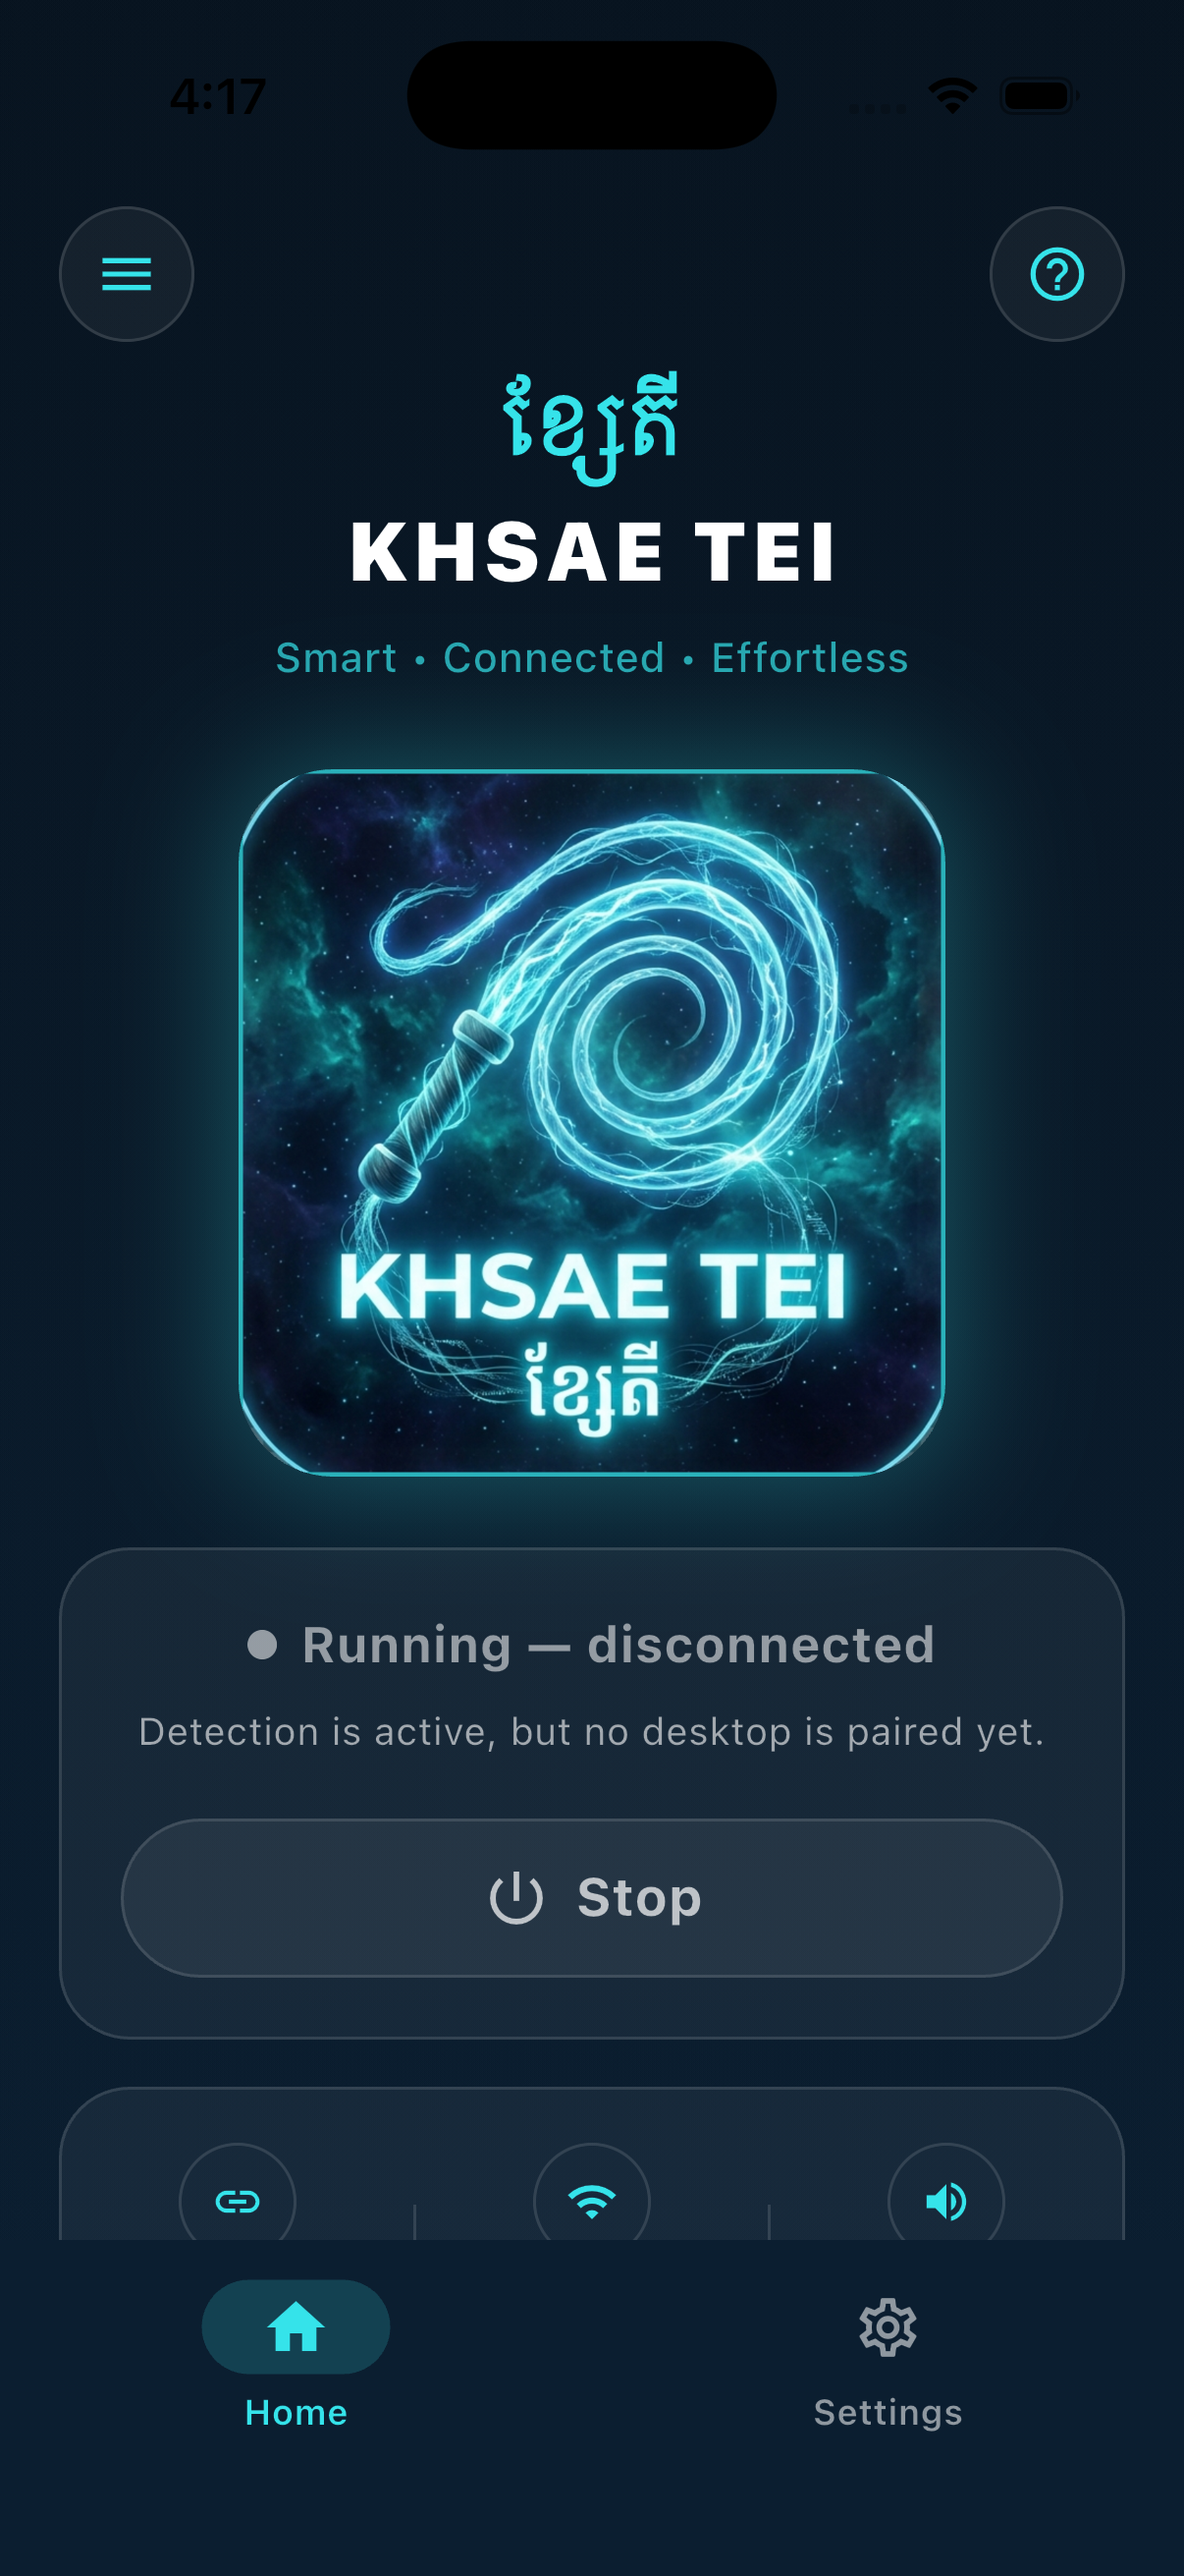
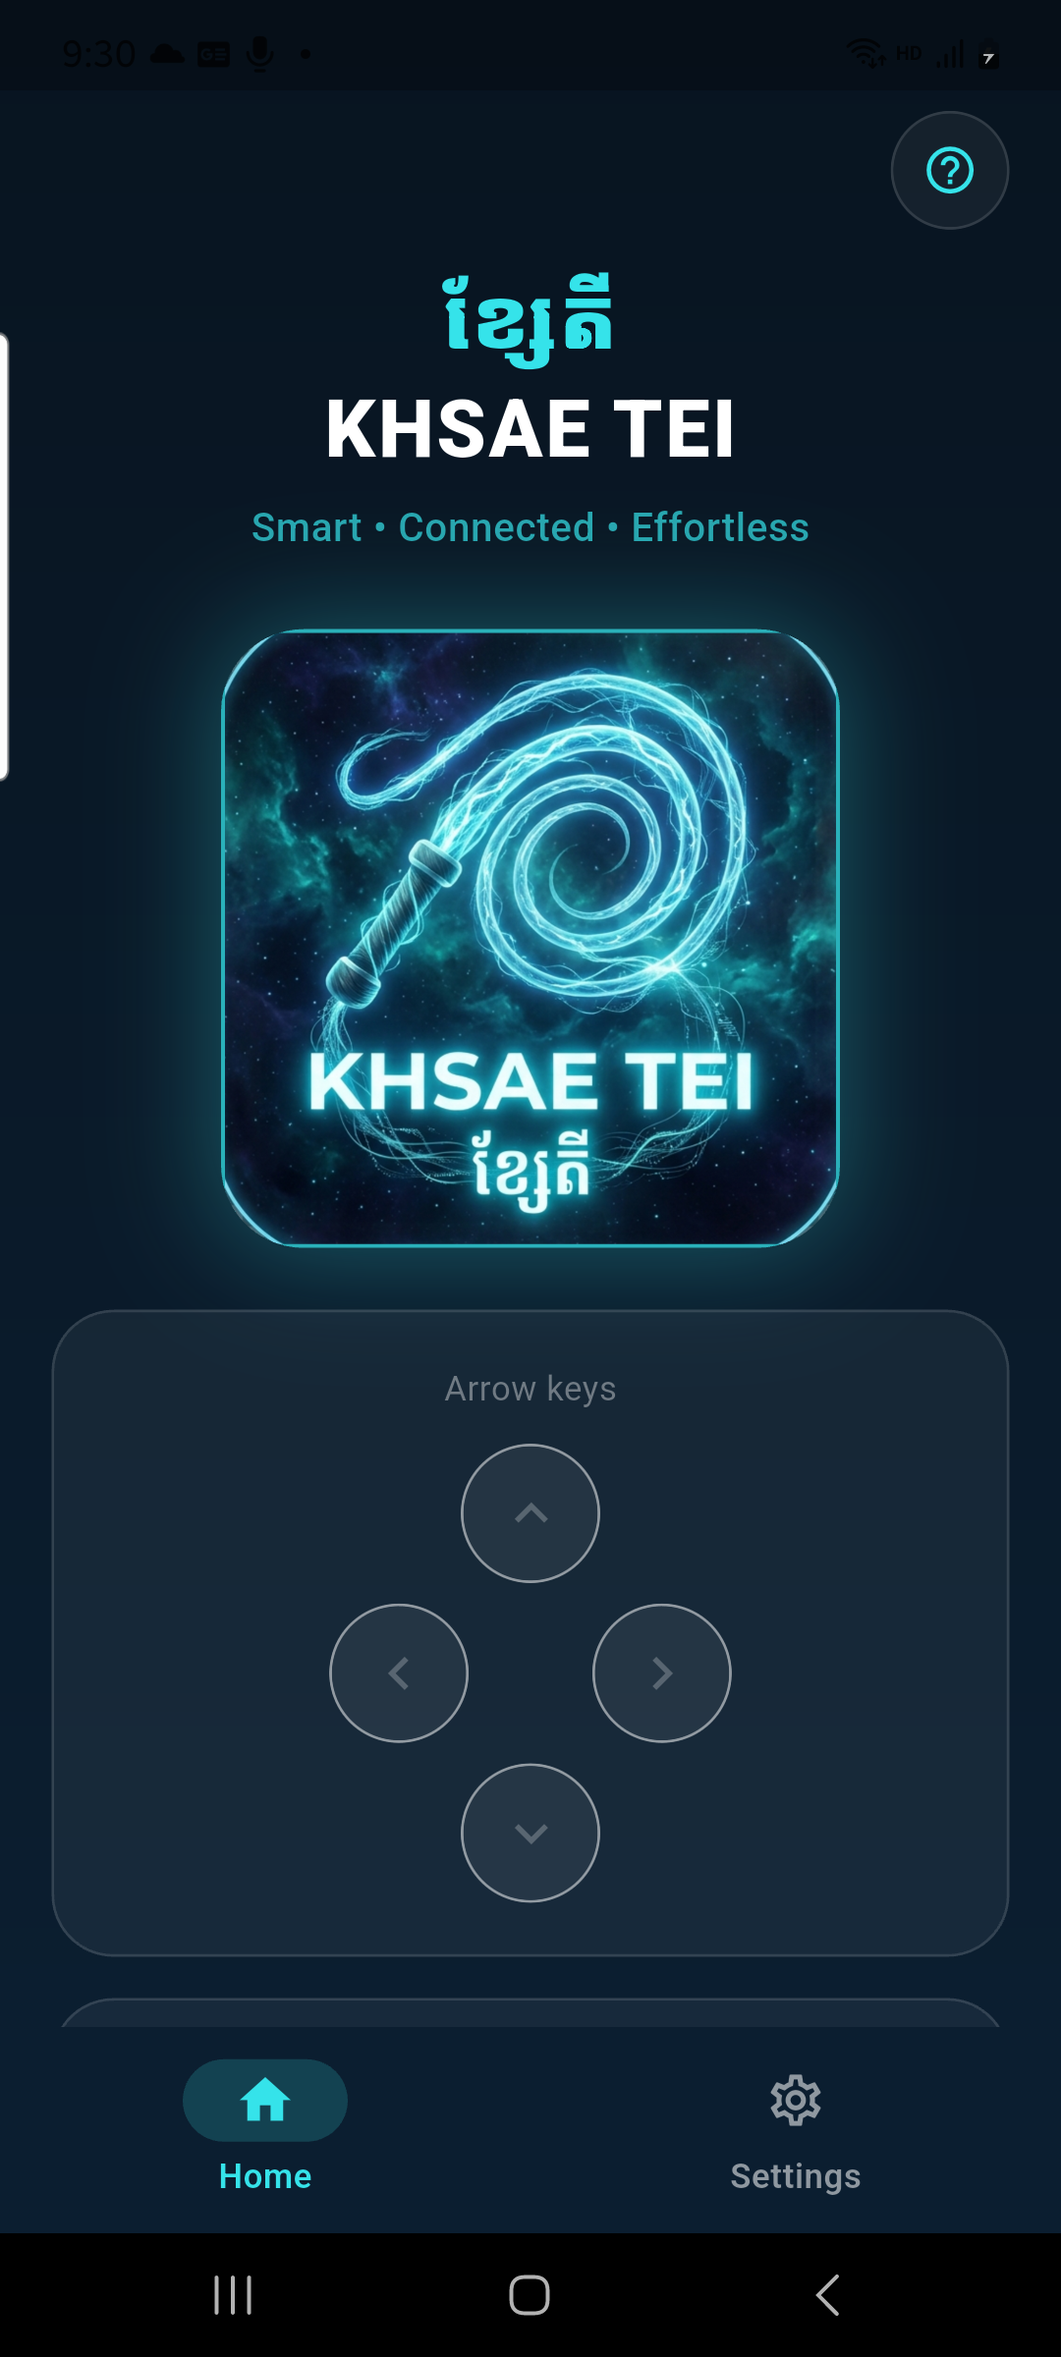
Prepare Android app for Play Store release
Wire up release signing (upload keystore, not checked in), enable
minification/shrinking with ProGuard rules for the ML Kit barcode
scanner, add a hosted privacy policy page, and generate/replace store
listing assets (hi-res icon, feature graphic, real Android screenshots
captured on-device).

diff --git a/docs/privacy-policy.html b/docs/privacy-policy.html
@@ -1,0 +1,102 @@
+<!doctype html>
+<html lang="en">
+<head>
+<meta charset="utf-8">
+<meta name="viewport" content="width=device-width, initial-scale=1">
+<title>Privacy Policy — KHSAE TEI</title>
+<style>
+  :root {
+    color-scheme: light dark;
+    --bg: #0d2334;
+    --fg: #eaf6fb;
+    --accent: #4dd8e6;
+    --muted: #9fb6c2;
+    --card: #12314a;
+  }
+  * { box-sizing: border-box; }
+  body {
+    margin: 0;
+    background: var(--bg);
+    color: var(--fg);
+    font-family: -apple-system, BlinkMacSystemFont, "Segoe UI", Roboto, Helvetica, Arial, sans-serif;
+    line-height: 1.6;
+  }
+  main {
+    max-width: 700px;
+    margin: 0 auto;
+    padding: 2.5rem 1.5rem 4rem;
+  }
+  h1 {
+    font-size: 1.75rem;
+    margin-bottom: 0.25rem;
+  }
+  .updated {
+    color: var(--muted);
+    font-size: 0.9rem;
+    margin-bottom: 2rem;
+  }
+  h2 {
+    font-size: 1.15rem;
+    margin-top: 2rem;
+    color: var(--accent);
+  }
+  .card {
+    background: var(--card);
+    border-radius: 12px;
+    padding: 1.25rem 1.5rem;
+    margin: 1.5rem 0;
+  }
+  ul { padding-left: 1.25rem; }
+  li { margin-bottom: 0.5rem; }
+  a { color: var(--accent); }
+  footer {
+    margin-top: 3rem;
+    color: var(--muted);
+    font-size: 0.85rem;
+  }
+</style>
+</head>
+<body>
+<main>
+  <h1>Privacy Policy — KHSAE TEI (ខ្សែតី)</h1>
+  <p class="updated">Last updated: August 10, 2026</p>
+
+  <p>
+    KHSAE TEI does not collect, store, or transmit any personal data to us
+    or to any third party. The app communicates directly with a companion
+    desktop application over your local network only — nothing leaves your
+    WiFi network.
+  </p>
+
+  <div class="card">
+    <h2>Permissions we ask for, and why</h2>
+    <ul>
+      <li>
+        <strong>Camera</strong> — to scan the QR code the desktop app
+        displays for pairing. Never used for anything else; no images are
+        stored or transmitted.
+      </li>
+      <li>
+        <strong>Local network access</strong> — to discover the desktop app
+        on your WiFi network (mDNS) and connect to it.
+      </li>
+    </ul>
+  </div>
+
+  <h2>What we don't do</h2>
+  <p>
+    We do not use analytics, advertising, or crash-reporting SDKs. We do
+    not have a server, a database, or an account system — there is nothing
+    for us to collect.
+  </p>
+
+  <h2>Contact</h2>
+  <p>
+    Questions about this policy? Email
+    <a href="mailto:sreangrathanak@gmail.com">sreangrathanak@gmail.com</a>.
+  </p>
+
+  <footer>KHSAE TEI — <a href="https://github.com/RathanakSreang/khsae_tei">github.com/RathanakSreang/khsae_tei</a></footer>
+</main>
+</body>
+</html>

diff --git a/mobile/RELEASE.md b/mobile/RELEASE.md
@@ -16,31 +16,58 @@ Screenshots are in [`store_assets/screenshots/`](store_assets/screenshots/).
 | Category suggestion | Utilities / Productivity |
 | Platforms | iOS 13+, Android 7.0+ (API 24+) |
 
-## Blocking — cannot submit without these
+## Blocking — Android status (2026-08-10)
 
-These need action from you (Apple Developer / Google Play Console access,
-or a judgment call I shouldn't make unilaterally) before either store will
-accept a build.
+Android release-prep is now done end-to-end from this environment. What
+changed:
 
-- [ ] **iOS distribution signing.** Currently only signs with your local
-  Apple Development certificate (fine for `flutter run`, not for App Store
-  Connect). In Xcode: Signing & Capabilities → enable "Automatically manage
-  signing" with your paid Apple Developer account, or generate a
-  Distribution certificate + App Store provisioning profile manually.
-- [ ] **Android release signing.** `android/app/build.gradle.kts` still signs
-  the `release` build type with the debug keystore (see the `// TODO: Add
-  your own signing config` comment). You need to:
-  1. `keytool -genkey -v -keystore ~/khsae-tei-upload.jks -keyalg RSA -keysize 2048 -validity 10000 -alias khsae_tei`
-  2. Create `android/key.properties` (already gitignored) with the keystore
-     path/passwords.
-  3. Wire a real `signingConfigs.release` block referencing it.
-  **Back up that keystore file + passwords somewhere durable — losing it
-  means you can never update the app under this listing again.**
-- [ ] **Privacy policy hosted at a public URL.** Both stores require one
-  because the app requests camera/local-network access. Draft text is below
-  — host it anywhere (GitHub Pages, a gist rendered as a page, a simple
-  static site) and give me the URL to drop into the store listing metadata
-  below.
+- [x] **Android release signing.** Generated a real upload keystore
+  (`~/khsae-tei-release/khsae-tei-upload.jks`, valid until 2053, **not** in
+  this repo). `android/key.properties` (gitignored) holds the alias and
+  passwords; `android/app/build.gradle.kts` now loads it and signs `release`
+  with `signingConfigs.getByName("release")` instead of the debug key —
+  verified with `apksigner verify --print-certs` against the built APK.
+  **The passwords were shown once in chat when generated — make sure you
+  saved `~/khsae-tei-release/upload-keystore-password.txt` and the `.jks`
+  itself somewhere durable (password manager + backup). Losing either means
+  you can never update this app under this Play listing again.**
+- [x] **Minification/shrinking enabled** for release (`isMinifyEnabled`,
+  `isShrinkResources`, `android/app/proguard-rules.pro` with keep rules for
+  the ML Kit barcode scanner `mobile_scanner` depends on). Verified on a
+  real device (Galaxy Note20): app launched, QR-scan-to-pair actually scanned
+  the desktop's live QR code and paired successfully, Test Whip worked — no
+  regressions from shrinking.
+- [x] **Privacy policy** — finalized (date + contact email filled in) and
+  added at `docs/privacy-policy.html`, ready for GitHub Pages. **One manual
+  step left for you**: repo Settings → Pages → Source: "Deploy from a
+  branch" → `main` / `/docs`. Once enabled the URL will be
+  `https://rathanaksreang.github.io/khsae_tei/privacy-policy.html` — use
+  that in the Play Console privacy policy field.
+- [x] **Store assets generated**: `store_assets/icon_512.png` (hi-res
+  console icon), `store_assets/feature_graphic.png` (1024×500), and real
+  Android screenshots (1080×2400, captured on the Note20) replacing the old
+  iOS-simulator ones at `store_assets/screenshots/`.
+- [x] **`flutter build appbundle --release`** succeeds and produces
+  `build/app/outputs/bundle/release/app-release.aab` — this is the file to
+  upload to Play Console.
+
+Still open (only you can do these — no Play Console/Google account access
+from here):
+
+- [ ] Create/confirm a Google Play Developer account ($25 one-time).
+- [ ] Create the app entry in Play Console and upload the `.aab`.
+- [ ] Flip the GitHub Pages toggle (one click, see above).
+- [ ] Paste in the store listing text/assets below and answer the
+  questionnaires (answers already drafted below).
+- [ ] **Exclude tablets** — this app has no tablet-adapted layout (phone
+  gesture app, no orientation/screen-size handling). No tablet screenshots
+  were produced (no tablet/tablet emulator available in this environment).
+  In Play Console: Release → Setup → Advanced settings → **Device catalog**
+  → add an exclusion rule for form factor "Tablet". This removes the
+  tablet screenshot requirement from the listing and stops the app being
+  offered to tablet users.
+- [ ] **iOS remains untouched** — distribution signing still needs a paid
+  Apple Developer account + Xcode on a Mac; not attempted here.
 
 ## Done
 
@@ -81,6 +108,18 @@ accept a build.
 **Keywords (Play Store, comma-separated):** whip, remote control, gesture,
 desktop remote, keyboard, productivity, accessibility, local network, LAN
 
+**Release name** (Play Console → Production → Create release; internal
+label, not shown to users):
+> 1.0.0 (1) — Initial release
+
+**Release notes** (Play Console → same screen; this one IS user-facing, on
+the "What's new" section of the store listing — ≤500 chars per language):
+> First release of KHSAE TEI.
+>
+> - Swing your phone like a whip to send Enter to your paired desktop
+> - Pair over your local WiFi via QR code, auto-discovery, or manual entry
+> - No cloud, no accounts — everything stays on your own network
+
 ## Privacy policy draft
 
 Host this text anywhere public and use that URL for both stores' privacy
@@ -104,7 +143,11 @@ policy field.
 > have a server, a database, or an account system — there is nothing for us
 > to collect.
 >
-> **Contact:** [fill in a contact email]
+> **Contact:** sreangrathanak@gmail.com
+
+Hosted at [`docs/privacy-policy.html`](../docs/privacy-policy.html) —
+public URL once GitHub Pages is enabled:
+`https://rathanaksreang.github.io/khsae_tei/privacy-policy.html`.
 
 ## App Store / Play Console questionnaire answers
 
@@ -117,32 +160,48 @@ policy field.
   user-generated content, no ads.
 - **Advertising ID usage:** Not used.
 
-## Screenshots
+## Screenshots (Android)
 
-Captured from the iPhone 17 Pro simulator (iOS 26.5, 1206×2622) with the
-debug banner suppressed. Both screens now share the same dark/cosmic theme
+Re-captured 2026-08-10 on a real device (Samsung Galaxy Note20, Android 13,
+1080×2400) with the debug banner suppressed, replacing the earlier
+iOS-simulator captures. Both screens share the dark/cosmic theme
 (`lib/theme.dart`, `lib/widgets.dart`):
 
 - `store_assets/screenshots/01_home.png` — Home dashboard
 - `store_assets/screenshots/02_settings.png` — Settings (connection setup)
 
-**Before using these as final store assets:** Apple and Google both require
-specific pixel dimensions per device class, and those requirements shift
-over time — check the current list in App Store Connect / Play Console at
-upload time and re-capture at the exact required sizes if these don't
-match.
+1080×2400 is within Play Console's phone screenshot requirements (16:9–9:16
+aspect ratio, min 320px). iOS screenshots still need re-capturing on an
+actual iOS simulator/device before an App Store submission — out of scope
+here (Android-only pass).
+
+## Store assets (Android, Play Console)
+
+- `store_assets/icon_512.png` — hi-res console icon (512×512)
+- `store_assets/feature_graphic.png` — feature graphic (1024×500)
+- `store_assets/screenshots/01_home.png`, `02_settings.png` — phone
+  screenshots
 
 ## Final pre-submission checklist
 
-- [ ] Resolve the two blocking signing items above
-- [ ] Host the privacy policy, get a URL, fill in date + contact email
-- [ ] Re-capture screenshots at the exact sizes each store currently requires
-- [ ] `flutter build appbundle --release` (Android) and an Xcode Archive
-  (iOS) — neither has been run in this environment (no Android SDK
-  installed here, and iOS release archiving needs a Distribution
-  certificate that doesn't exist yet)
-- [ ] Run `pod install` in `mobile/ios/` on a Mac before the next iOS build
-  — `Podfile.lock` still references `flutter_background_service_ios` and
-  other now-removed pods; it can only be regenerated with CocoaPods on
-  macOS, not from this environment
-- [ ] Bump `version:` in `pubspec.yaml` if this isn't truly `1.0.0+1`
+Android:
+- [x] Release signing, minification, privacy policy text/hosting, store
+  assets, and `appbundle --release` build — all done, see above.
+- [ ] Enable GitHub Pages (`main` / `/docs`) so the privacy policy URL goes
+  live.
+- [ ] Everything else is Play Console UI work: create the app, upload
+  `build/app/outputs/bundle/release/app-release.aab`, paste in the listing
+  text/assets above, answer the Data Safety + content rating
+  questionnaires (answers above), submit.
+
+iOS (untouched, no Mac available in this environment):
+- [ ] iOS distribution signing (paid Apple Developer account + Xcode)
+- [ ] Run `pod install` in `mobile/ios/` on a Mac — `Podfile.lock` still
+  references removed pods and can only be regenerated with CocoaPods on
+  macOS
+- [ ] Re-capture iOS screenshots at current App Store Connect sizes
+- [ ] Xcode Archive + upload
+
+Both:
+- [x] `version: 1.0.0+1` confirmed correct for a first release, no bump
+  needed.
